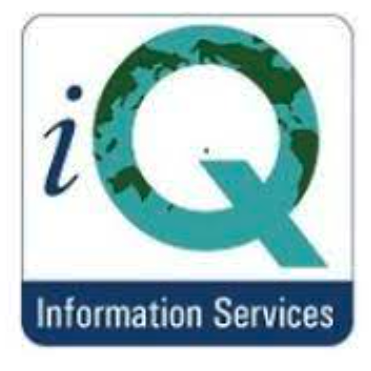
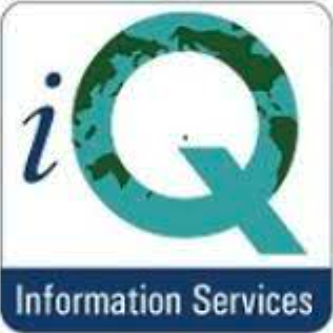
updates

diff --git a/index.html b/index.html
@@ -124,7 +124,7 @@
 											</div>
 										</article>
 										<article>
-											<img class="image" src="images/iquadraLogo2.jpg" alt="" />
+											<img class="image" src="images/iquadra.png" alt="" />
 											<div class="inner">
 												<h4>IQuadra Information Services</h4>
 												<h5> &emsp; Product Development Intern (June 2019 - August 2019) </h5>
